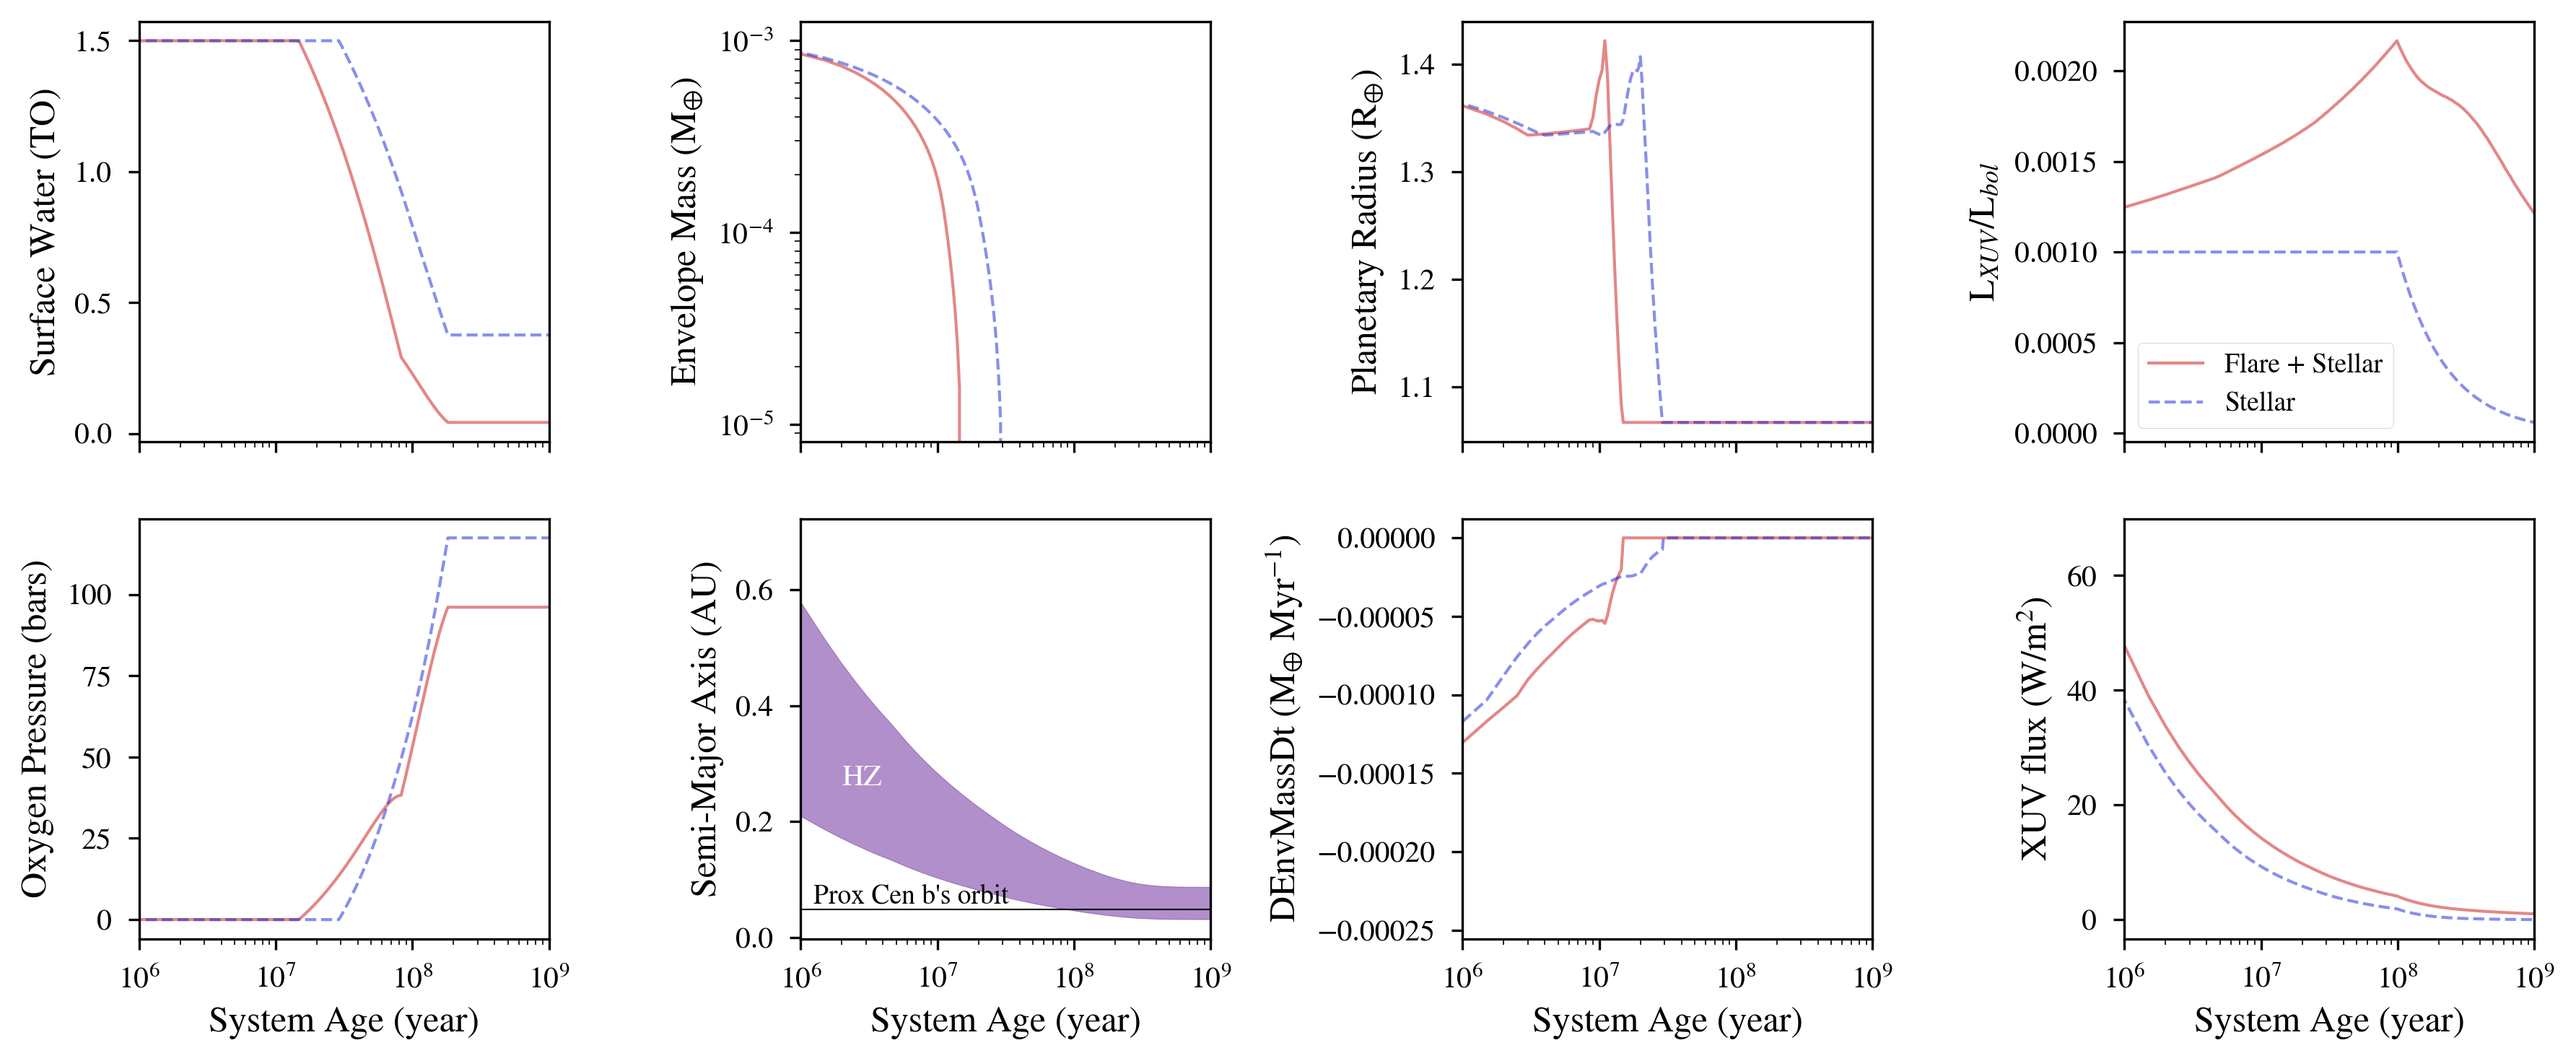
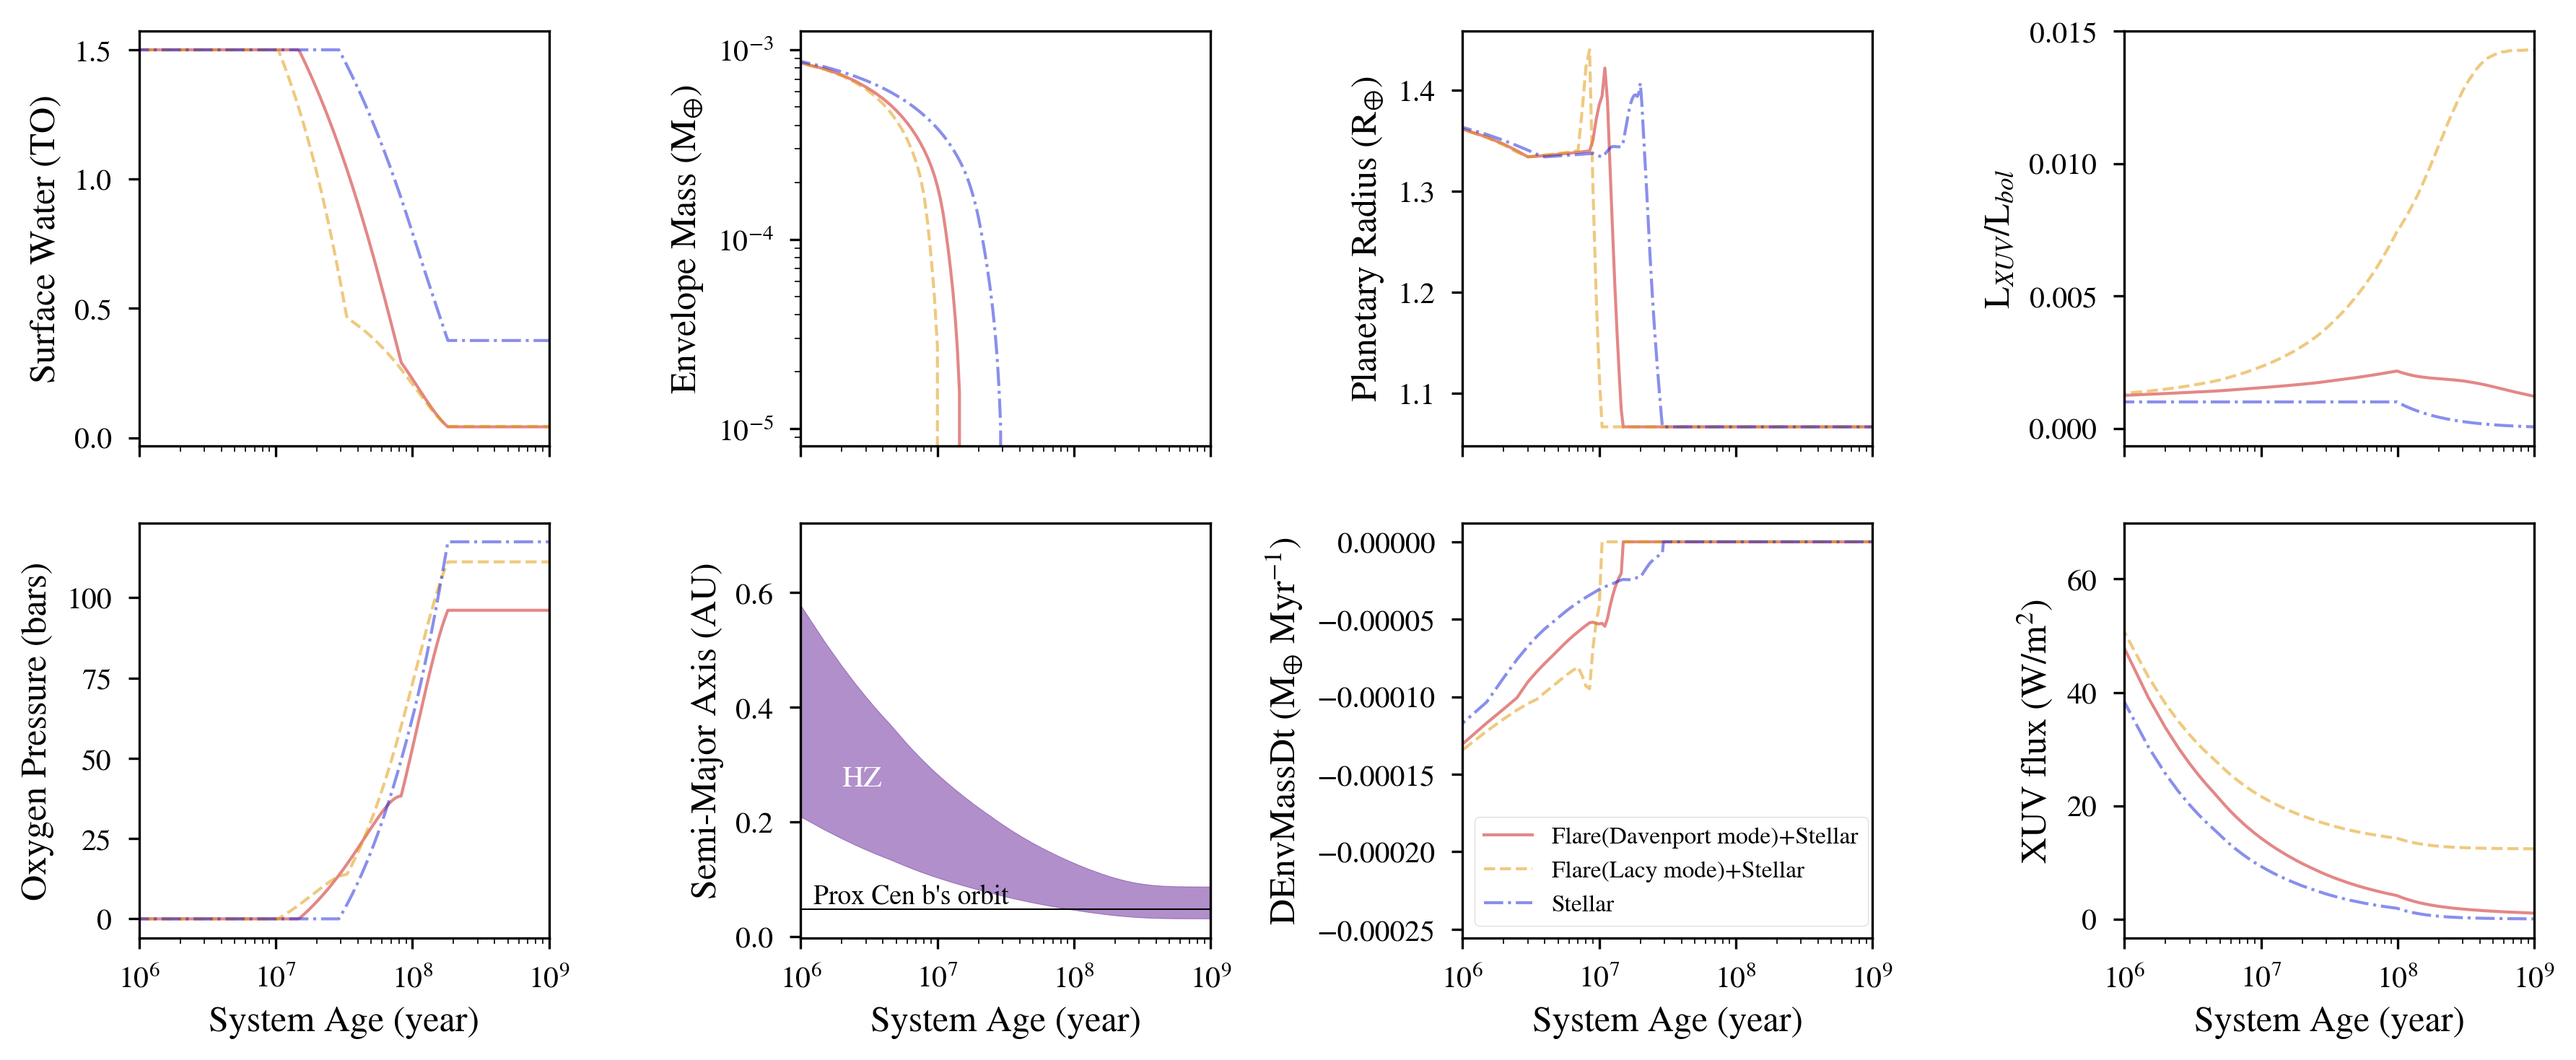
Adding a the lacy mode to AtmEscFlareProxCen example.

diff --git a/examples/AtmEscFlareProxCen/makeplot.py b/examples/AtmEscFlareProxCen/makeplot.py
@@ -37,7 +37,7 @@ if sys.argv[1] != "pdf" and sys.argv[1] != "png":
     exit(1)
 
 # Overwritten old files
-directory = ["./flare", "./stellar"]
+directory = ["./davenport", "./lacy", "./stellar"]
 
 for i in directory:
     os.chdir(i)
@@ -47,25 +47,26 @@ for i in directory:
 
 
 # Running the simulations
-run = ["./flare/vpl.in", "./stellar/vpl.in"]
+run = ["./davenport/vpl.in", "./lacy/vpl.in", "./stellar/vpl.in"]
 
-flare = []
+davenport = []
+lacy = []
 stellar = []
 
-directory = [flare, stellar]
+directory = [davenport, lacy, stellar]
 
-for i in range(0, 2):
+for i in range(0, 3):
     directory[i] = vplanet.run(path / run[i], units=False)
 
 # Plot!
 fig, axes = plt.subplots(nrows=2, ncols=4, sharex="col", figsize=(12, 5))
 
-style = ["-", "--"]
-color = [vpl.colors.red, vpl.colors.dark_blue]
+style = ["-", "--", "-."]
+color = [vpl.colors.red, vpl.colors.orange, vpl.colors.dark_blue]
 
 a = 1
 
-for i in range(0, 2):
+for i in range(0, 3):
     axes[0, 0].plot(
         directory[i].b.Time,
         directory[i].b.SurfWaterMass,
@@ -98,14 +99,6 @@ for i in range(0, 2):
         linestyle=style[i],
         alpha=0.5,
     )
-    axes[1, 2].plot(
-        directory[i].b.Time,
-        directory[i].b.DEnvMassDt,
-        color=color[i],
-        linewidth=a,
-        linestyle=style[i],
-        alpha=0.5,
-    )
     axes[1, 3].plot(
         directory[i].b.Time,
         directory[i].b.FXUV,
@@ -114,27 +107,44 @@ for i in range(0, 2):
         linestyle=style[i],
         alpha=0.5,
     )
+    axes[0, 3].plot(
+        directory[i].star.Time,
+        directory[i].star.LXUVTot / directory[i].star.Luminosity,
+        color=color[i],
+        linewidth=a,
+        linestyle=style[i],
+        alpha=0.5,
+    )
 
-
-axes[0, 3].plot(
-    directory[0].star.Time,
-    directory[0].star.LXUVTot / directory[0].star.Luminosity,
+axes[1, 2].plot(
+    directory[0].b.Time,
+    directory[0].b.DEnvMassDt,
     color=color[0],
     linewidth=a,
     linestyle=style[0],
     alpha=0.5,
-    label=r"Flare + Stellar",
+    label="Flare(Davenport mode)+Stellar",
 )
-axes[0, 3].plot(
-    directory[1].star.Time,
-    directory[1].star.LXUVTot / directory[1].star.Luminosity,
+axes[1, 2].plot(
+    directory[1].b.Time,
+    directory[1].b.DEnvMassDt,
     color=color[1],
     linewidth=a,
     linestyle=style[1],
     alpha=0.5,
-    label=r"Stellar",
+    label="Flare(Lacy mode)+Stellar",
 )
-axes[0, 3].legend(loc="lower left", ncol=1, fontsize=9)
+axes[1, 2].plot(
+    directory[2].b.Time,
+    directory[2].b.DEnvMassDt,
+    color=color[2],
+    linewidth=a,
+    linestyle=style[2],
+    alpha=0.5,
+    label="Stellar",
+)
+
+axes[1, 2].legend(loc="lower left", ncol=1, fontsize=8)
 
 axes[1, 1].fill_between(
     directory[0].b.Time,

diff --git a/src/flare.c b/src/flare.c
@@ -506,7 +506,7 @@ void InitializeOptionsFlare(OPTIONS *options, fnReadOption fnRead[]) {
   options[OPT_FLARESLOPE].dDefault   = -0.68;
   options[OPT_FLARESLOPE].iType      = 2;
   options[OPT_FLARESLOPE].bMultiFile = 1;
-  options[OPT_FLARESLOPE].dNeg       = 1.0 / (DAYSEC * log10(1.0e-7));
+  options[OPT_FLARESLOPE].dNeg       = 1.0 / (DAYSEC * log10(1.0e7));
   sprintf(options[OPT_FLARESLOPE].cNeg, "1/day 1/log10(erg)");
   fnRead[OPT_FLARESLOPE] = &ReadFlareSlope;
   sprintf(

diff --git a/examples/AtmEscFlareProxCen/README.rst b/examples/AtmEscFlareProxCen/README.rst
@@ -16,7 +16,7 @@ Loss of a hydrogen envelope, surface water and build-up oxygen due to stellar+fl
 ===================   ============
 
 This example shows the evolution of the planetary parameters of Proxima Centauri b, comparing when the planet is
-reached by flares and when only the quiescent XUV luminosity is consider.
+reached by flares with a constant FFD, a FFD time-dependent and when only the quiescent XUV luminosity is consider.
 
 
 To run this example
